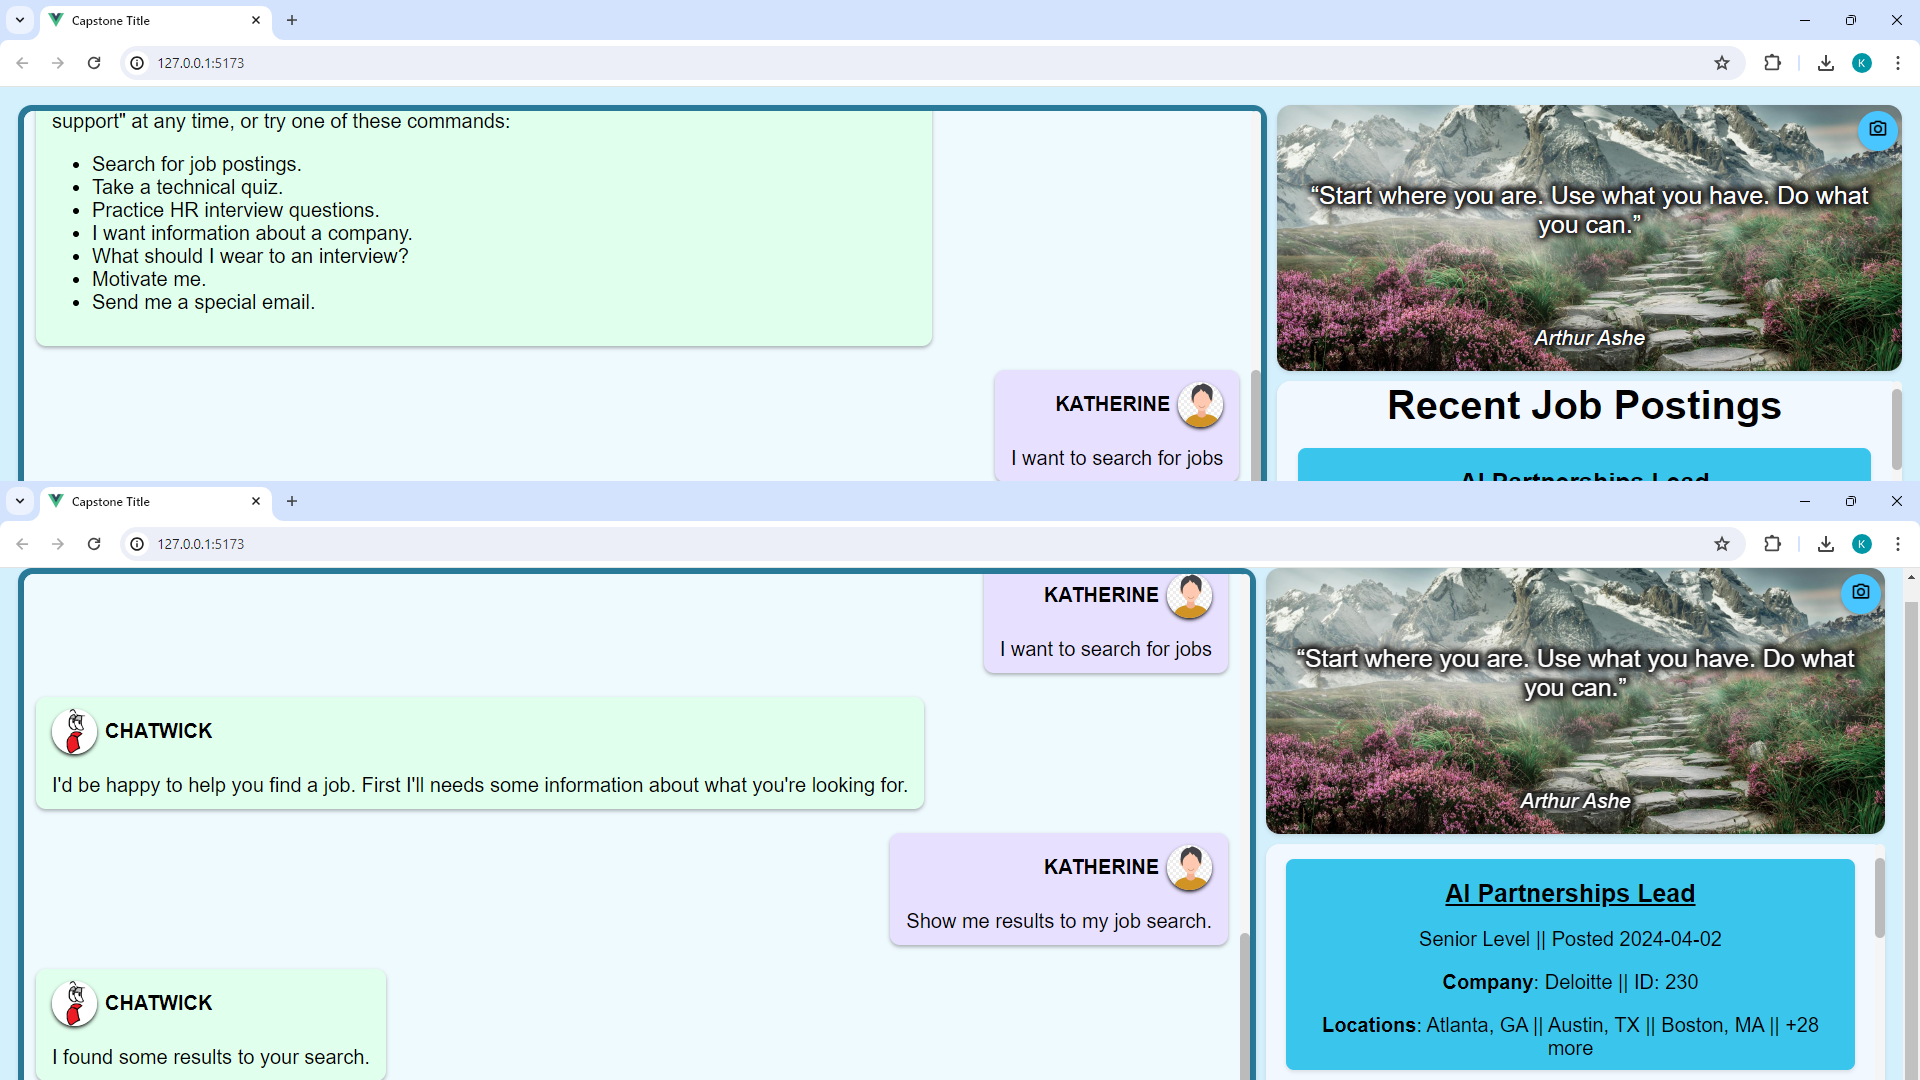
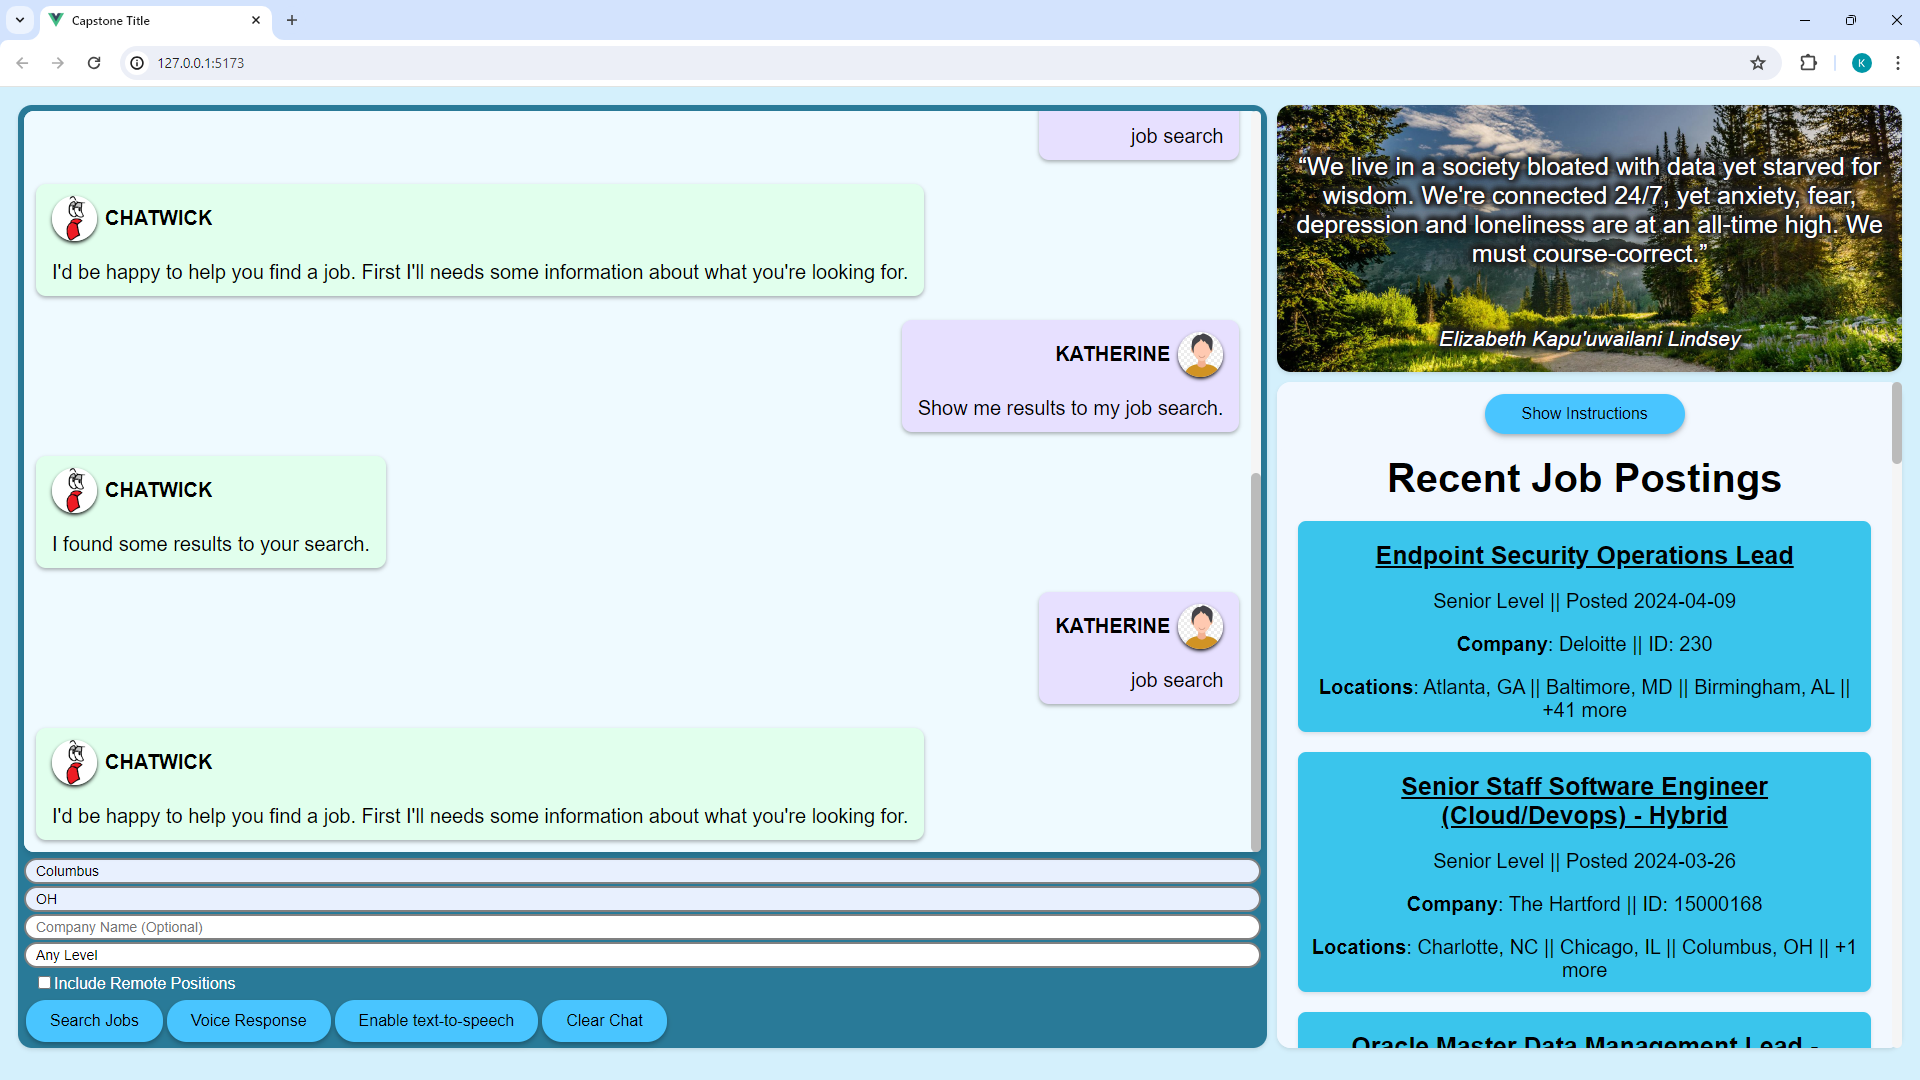
fixed formatting while in job search mode

diff --git a/vue/src/components/ChatDisplay.vue b/vue/src/components/ChatDisplay.vue
@@ -1,5 +1,5 @@
 <template>
-    <div id="chat-display"></div>
+    <div id="chat-display" :class="this.$store.state.mode === 1 ? 'job-mode' : ''"></div>
     <div class="overlay" v-if="record">
         <img src="/src/assets/record.gif" alt="Overlay" class="overlay-image">
     </div>
@@ -69,9 +69,9 @@ export default {
     },
 
     components: {
-    JobSearchForm,
-    CameraDisplay,
-},
+    JobSearchForm    
+    
+    },
 
     methods: {
         addUserBox() {
@@ -507,6 +507,10 @@ div#chat-display {
     margin-bottom: 6px;
 
     position: relative;
+}
+
+div#chat-display.job-mode {
+    height: calc(105vh - 302px);
 }
 
 div#chat-display>div {
